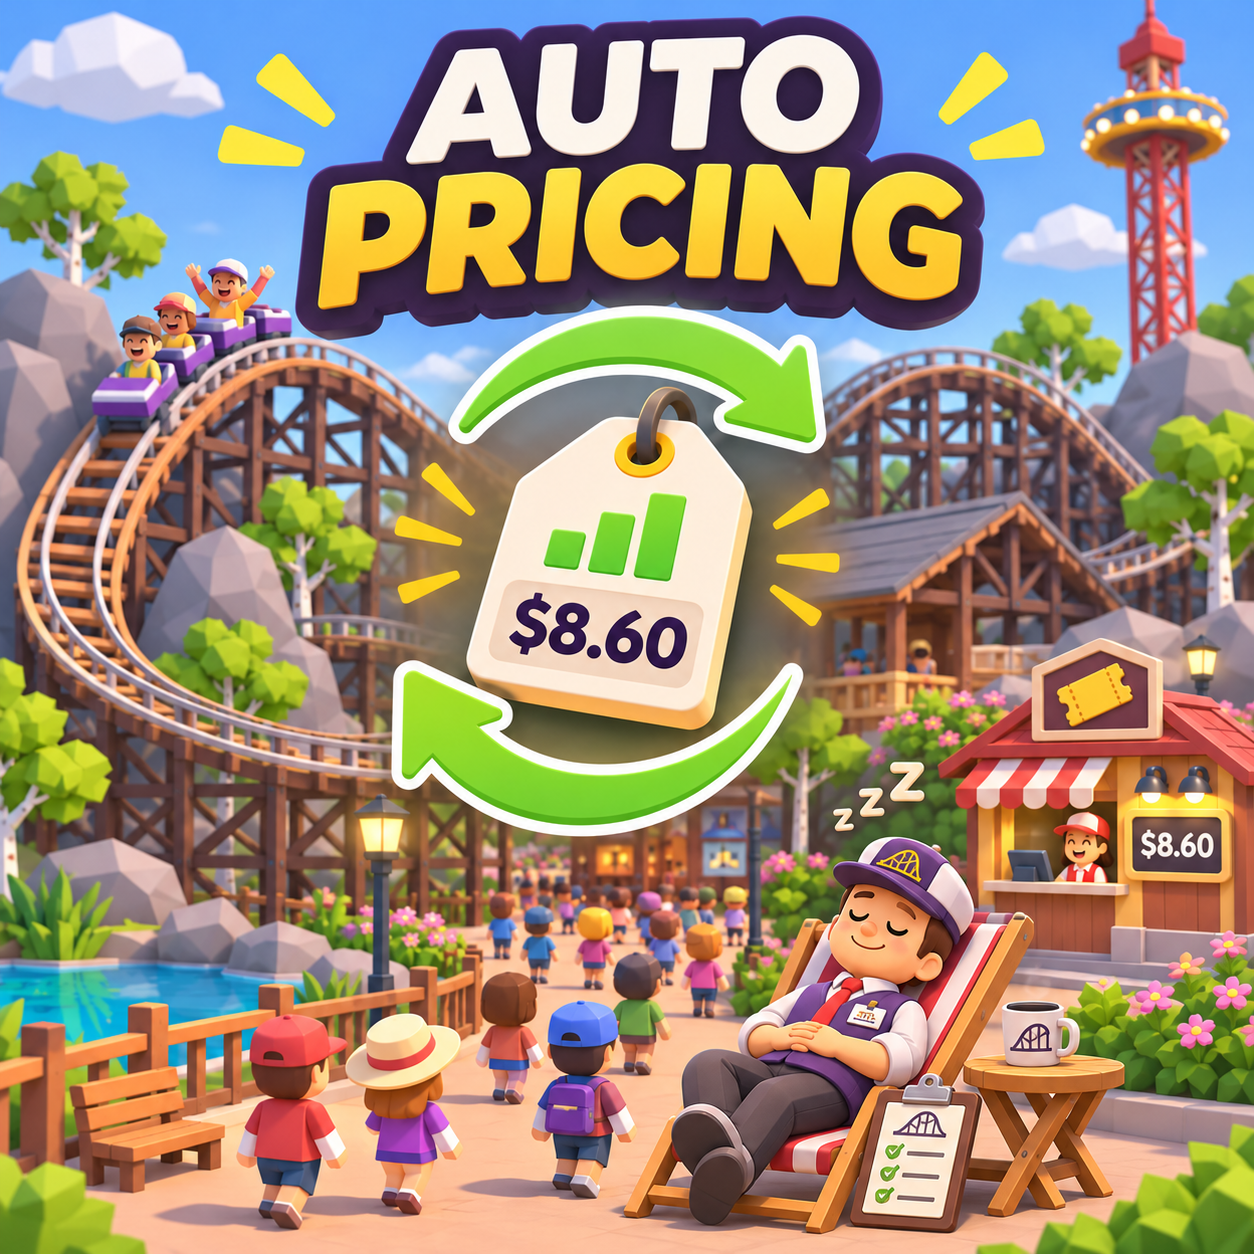
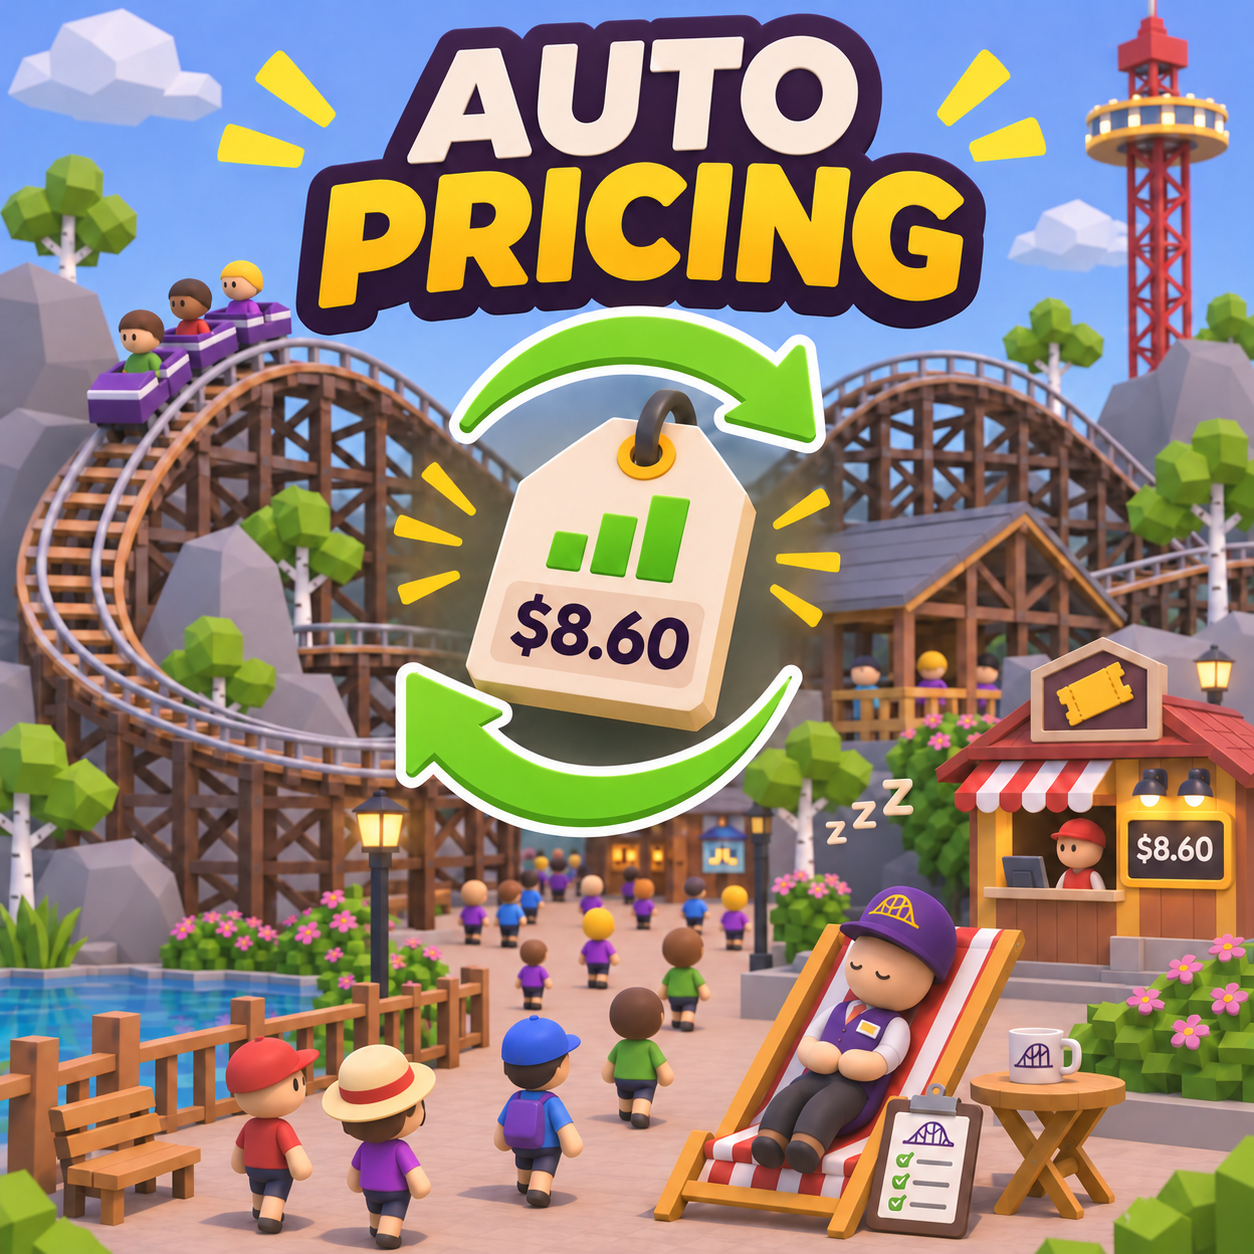
Illustrate the pricing guide with separate characters

diff --git a/README.es.md b/README.es.md
@@ -2,6 +2,22 @@
 
 El mod ajusta automáticamente los precios de las atracciones y los productos según la valoración de los visitantes. Usa español cuando Parkitect está en español e inglés para los demás idiomas. [English](README.md).
 
+## Un día en el parque
+
+**Visitante de una atracción:** «¿$8.60?» El mod estima el precio de entrada según los visitantes interesados en esa atracción.
+
+<img src="assets/illustrations/ride-guest.png" width="320" alt="Visitante preguntando por un precio de $8.60">
+
+**Visitante de una tienda:** «¿$4.40?» También puede estimar precios de productos si está activada esa opción.
+
+<img src="assets/illustrations/shop-guest.png" width="300" alt="Visitante preguntando por un producto de $4.40">
+
+**Administrador:** «Hora de descansar». Auto Pricing revisa los precios con el intervalo elegido; puedes pasar cualquier precio individual a control manual.
+
+<img src="assets/illustrations/sleeping-manager.png" width="420" alt="Administrador dormido junto a una computadora que calcula precios">
+
+El diálogo y los precios son ilustrativos: no son precios fijos ni una conversación dentro del juego. Consulta los detalles y límites más abajo.
+
 ## Instalación y uso
 
 [Suscríbete en Steam Workshop](https://steamcommunity.com/sharedfiles/filedetails/?id=3832850553) y activa **Auto Pricing** en los ajustes de mods del juego. Como alternativa, descarga la [versión publicada](https://github.com/weedoozas/parkitect-auto-pricing/releases/latest) y copia `AutoPrecios.dll` a una carpeta propia dentro de `Mods` y actívalo. En los ajustes puedes elegir atracciones y tiendas, nivel de precio, porcentaje máximo deseado de visitantes interesados que no pagarían e intervalo de ajuste.

diff --git a/README.md b/README.md
@@ -4,6 +4,22 @@
 
 Auto Pricing adjusts ride admission and shop product prices based on what your current guests value. Set it once and keep building your park. English is the default; the mod switches to Spanish when Parkitect's language is Spanish. [Leer en español](README.es.md).
 
+## A day at the park
+
+**Ride guest:** “$8.60?” The mod estimates a ride's admission price from the guests interested in it.
+
+<img src="assets/illustrations/ride-guest.png" width="320" alt="Park guest asking about a ride price of $8.60">
+
+**Shop guest:** “$4.40?” It can estimate shop product prices too, when shop pricing is enabled.
+
+<img src="assets/illustrations/shop-guest.png" width="300" alt="Park guest asking about a shop price of $4.40">
+
+**Park manager:** “Time to relax.” Auto Pricing reviews the prices at the selected interval; you can still switch individual prices to manual.
+
+<img src="assets/illustrations/sleeping-manager.png" width="420" alt="Sleeping manager beside a computer calculating prices">
+
+The dialogue and prices are illustrative, not fixed prices or an in-game conversation. See the details and limitations below.
+
 ## Install and use
 
 1. [Subscribe on Steam Workshop](https://steamcommunity.com/sharedfiles/filedetails/?id=3832850553), then enable **Auto Pricing** in Parkitect's mod settings. Restart the game if prompted. Alternatively, download the [release](https://github.com/weedoozas/parkitect-auto-pricing/releases/latest) and copy `AutoPrecios.dll` into its own folder under the game's `Mods` directory and enable it there.
